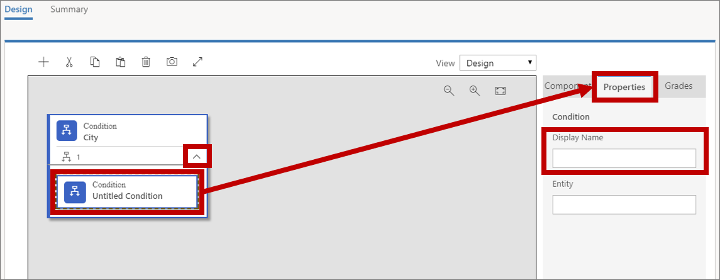
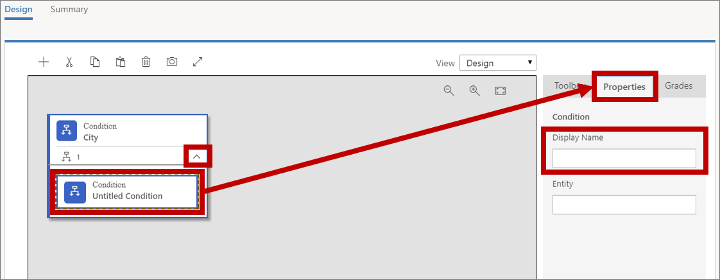
Added note that leads must have a contact associated, changed Components > Toolbox

diff --git a/ce/marketing/set-up-lead-scoring.md b/ce/marketing/set-up-lead-scoring.md
@@ -29,7 +29,7 @@ To create a lead scoring model:
 1. The **New Lead Scoring Model** page opens, with the **Design** tab shown. This designer is similar to other designers in [!INCLUDE[pn-marketing-business-app-module-name](../includes/pn-marketing-business-app-module-name.md)]. You use it to build scoring models by creating a collection of condition/action tile pairs, where the **Condition** tile establishes a condition (such as **email opened**) and the **Action** tile establishes how the score should change when the condition is met (such as, **add 50 points**).  
     ![Add a condition tile to the model](media/scoring-add-condition.png "Add a condition tile to the model")
 
-    Drag a **Condition** tile from the **Components** tab to the first position on the canvas.
+    Drag a **Condition** tile from the **Toolbox** tab to the first position on the canvas.
 
 1. When you drop the tile, it stays selected and the **Properties** tab opens to show its settings. In this case, the only setting is a name for the tile. You're going to create a condition that looks at the city where a lead is living, so set the **Display Name** to **City**.  
     ![Set a display name for the condition tile](media/scoring-condition-name.png "Set a display name for the condition tile")
@@ -51,7 +51,7 @@ To create a lead scoring model:
 
     > [!TIP] You can add more expressions here by choosing **+ New Expression**.
 
-1. Drag an **Action** tile from the **Components** tab to the space immediately to the right of the **Condition** tile you just set up.  
+1. Drag an **Action** tile from the **Toolbox** tab to the space immediately to the right of the **Condition** tile you just set up.  
     ![Add an action tile](media/scoring-add-action.png "Add an action tile")
 
 1. When you drop the tile, it stays selected and the **Properties** tab opens to show its settings. This is where you set how a lead's score is changed when the **Condition** resolves to true.  
@@ -59,7 +59,7 @@ To create a lead scoring model:
 
     Set **Score Update** to **+70**. The rule will now give 70 points to any lead working in London.
 
-1. By using a process like the one you used to create the first rule, add a new rule below the first one and set it to give +40 points to leads living in England (check the Leads entity where Country/Region = England).  
+1. By using a process like the one you used to create the first rule, add a new rule below the first one and set it to give +40 points to leads living in England (check the **Leads** entity where **Country/Region = England**).  
     ![Add a second rule to the model](media/scoring-second-rule.png "Add a second rule to the model")
 
     > [!TIP] When your model includes several rules, like this one does, each rule can affect the lead score independently. For example, the model you built so far will increase a lead score by 110 points for leads who live in London, England. Likewise, leads from Manchester, England will get +40 points and leads from London, Ohio will get +70 points.
@@ -72,6 +72,7 @@ To create a lead scoring model:
     > [!TIP] You can add any number of additional grades to help classify a lead according to its score (such as 0-25=Cold, 26-60=Warm, 61-100=Hot). Choose **+ New** on the **Grades** tab to add and define each required grade.
 
 1. Like customer journeys, landing pages, and email messages, your lead scoring rule must go live before it can have any effect. Do the following to finish the model:
+    - Go to the **Summary** tab and give your rule a **Name** (such as "London, England").
     - On the command bar, select **Save** to save your model.
     - On the command bar, select **Check for Errors**, and then read the results and fix any problems reported.
     - On the command bar, select **Go Live** to activate the model. [!INCLUDE[pn-crm-2016-shortest](../includes/pn-crm-2016-shortest.md)] runs a final error check, and then updates the **Status Reason** to **Going Live**. It might take a few minutes for the process to be completed, at which time the **Status Reason** will change to **Live**.
@@ -86,13 +87,14 @@ To create a lead scoring model:
 
     When it's saved, the page is refreshed and a business process flow (BPF) is added at the top of the page and several new sections are added to the body.
 
-1. Look for the **Lead Scores** section near the lower-right corner of the page (you might need to scroll). Each lead scoring model is listed here, including your new one. It might take a few minutes for the score to be calculated, but after it is, you should see that it shows a score of 110 points.
+1. Choose the first step of the business process flow to open its menu, and then make an assignment in the **Existing Contact?** field. Choose any contact you can find&mdash;the one you choose isn't important for this exercise. Then save the lead. The associated contact is now listed in the **Stakeholders** section for the lead.  
+    ![Link a lead to an existing contact](media/scoring-lead-contact-example.png "Link a lead to an existing contact")
 
-    > [!TIP] Segments in [!INCLUDE[pn-marketing-business-app-module-name](../includes/pn-marketing-business-app-module-name.md)] can only include contacts, not leads, which means that you can only address marketing emails to contacts. Therefore, most of your leads should be associated with a contact to enable scoring on events such as email opens, event registrations, and other interactions with your marketing initiatives (though this is not especially important for this exercise).
+    > [!IMPORTANT] Automatic lead scoring only works for leads that are associated with a contact. Scoring fails for leads that don't have a contact associated with them. Also, segments in [!INCLUDE[pn-marketing-business-app-module-name](../includes/pn-marketing-business-app-module-name.md)] can only include contacts, not leads, which means that you can only address marketing emails to contacts.
     > 
-    > Your landing pages will typically either create a lead/contact pair when you create a new contact, or associate new leads with existing contacts when they're available. When you create a lead manually, as you did here, you can associate it with a contact by using the **Existing Contact** field in the **Qualify** menu of the business process for the lead. The associated contact is also listed in the **Stakeholders** section for the lead.
-    > 
-    >![Link a lead to an existing contact](media/scoring-lead-contact-example.png "Link a lead to an existing contact")
+    > Your landing pages will typically either create a lead/contact pair when you create a new contact, or associate new leads with existing contacts when they're available. But when you create a lead manually, as you did here, you must also associate it with a contact manually to enable lead scoring.
+
+1. Look for the **Lead Scores** section near the lower-right corner of the page (you might need to scroll). Each lead scoring model is listed here, including your new one. It might take a few minutes for the score to be calculated, but after it is, you should see that it shows a score of 110 points.
 
 ### See also
 

diff --git a/ce/marketing/score-manage-leads.md b/ce/marketing/score-manage-leads.md
@@ -38,6 +38,10 @@ After a single interaction, a new lead is usually still considered *unqualified*
 
 Each lead has a score, and each time the associated contact interacts with an initiative in that lead's marketing context, it increases the lead score until it reaches a certain threshold, at which time it's considered marketing-qualified (sales-ready). At that point, the lead is sent to a salesperson, who decides whether to accept the lead. After the lead is accepted by sales, the lead might go on to become a sales-qualified lead, then converted to an opportunity and, finally, become a closed sale. Or, the salesperson might decide that the lead isn't ready and might reject the lead or recycle it by sending it back to marketing. Other leads might eventually get marked as lost, but the contact will remain in your database to be included in future marketing campaigns.
 
+> [!IMPORTANT] Automatic lead scoring only works for leads that are associated with a contact. Scoring fails for leads that don't have a contact associated with them. Also, segments in [!INCLUDE[pn-marketing-business-app-module-name](../includes/pn-marketing-business-app-module-name.md)] can only include contacts, not leads, which means that you can only address marketing emails to contacts.
+> 
+> Your landing pages will typically either create a lead/contact pair when you create a new contact, or associate new leads with existing contacts when they're available. But when you create a lead manually, you must also associate it with a contact manually to enable lead scoring.
+
 ## Lead generation
 
 There are two ways to create a lead: manual and automatic.
